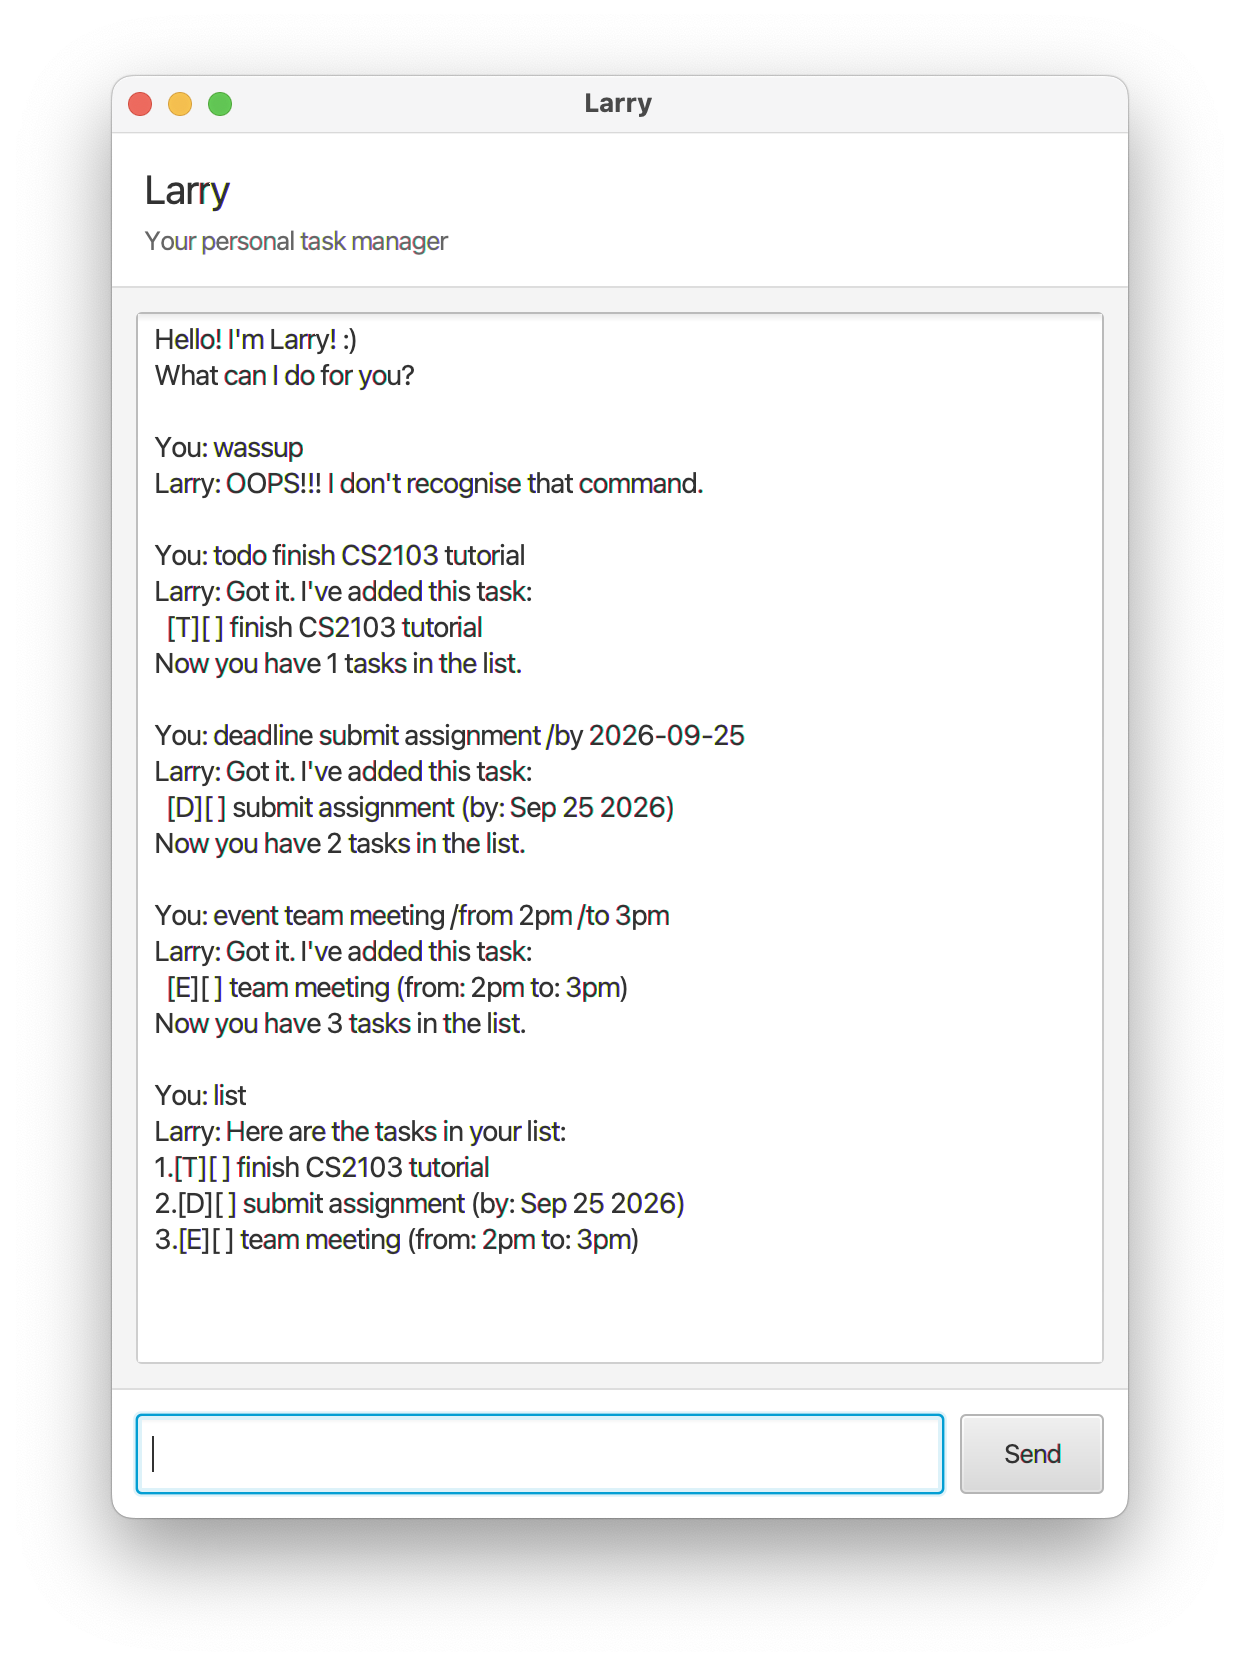
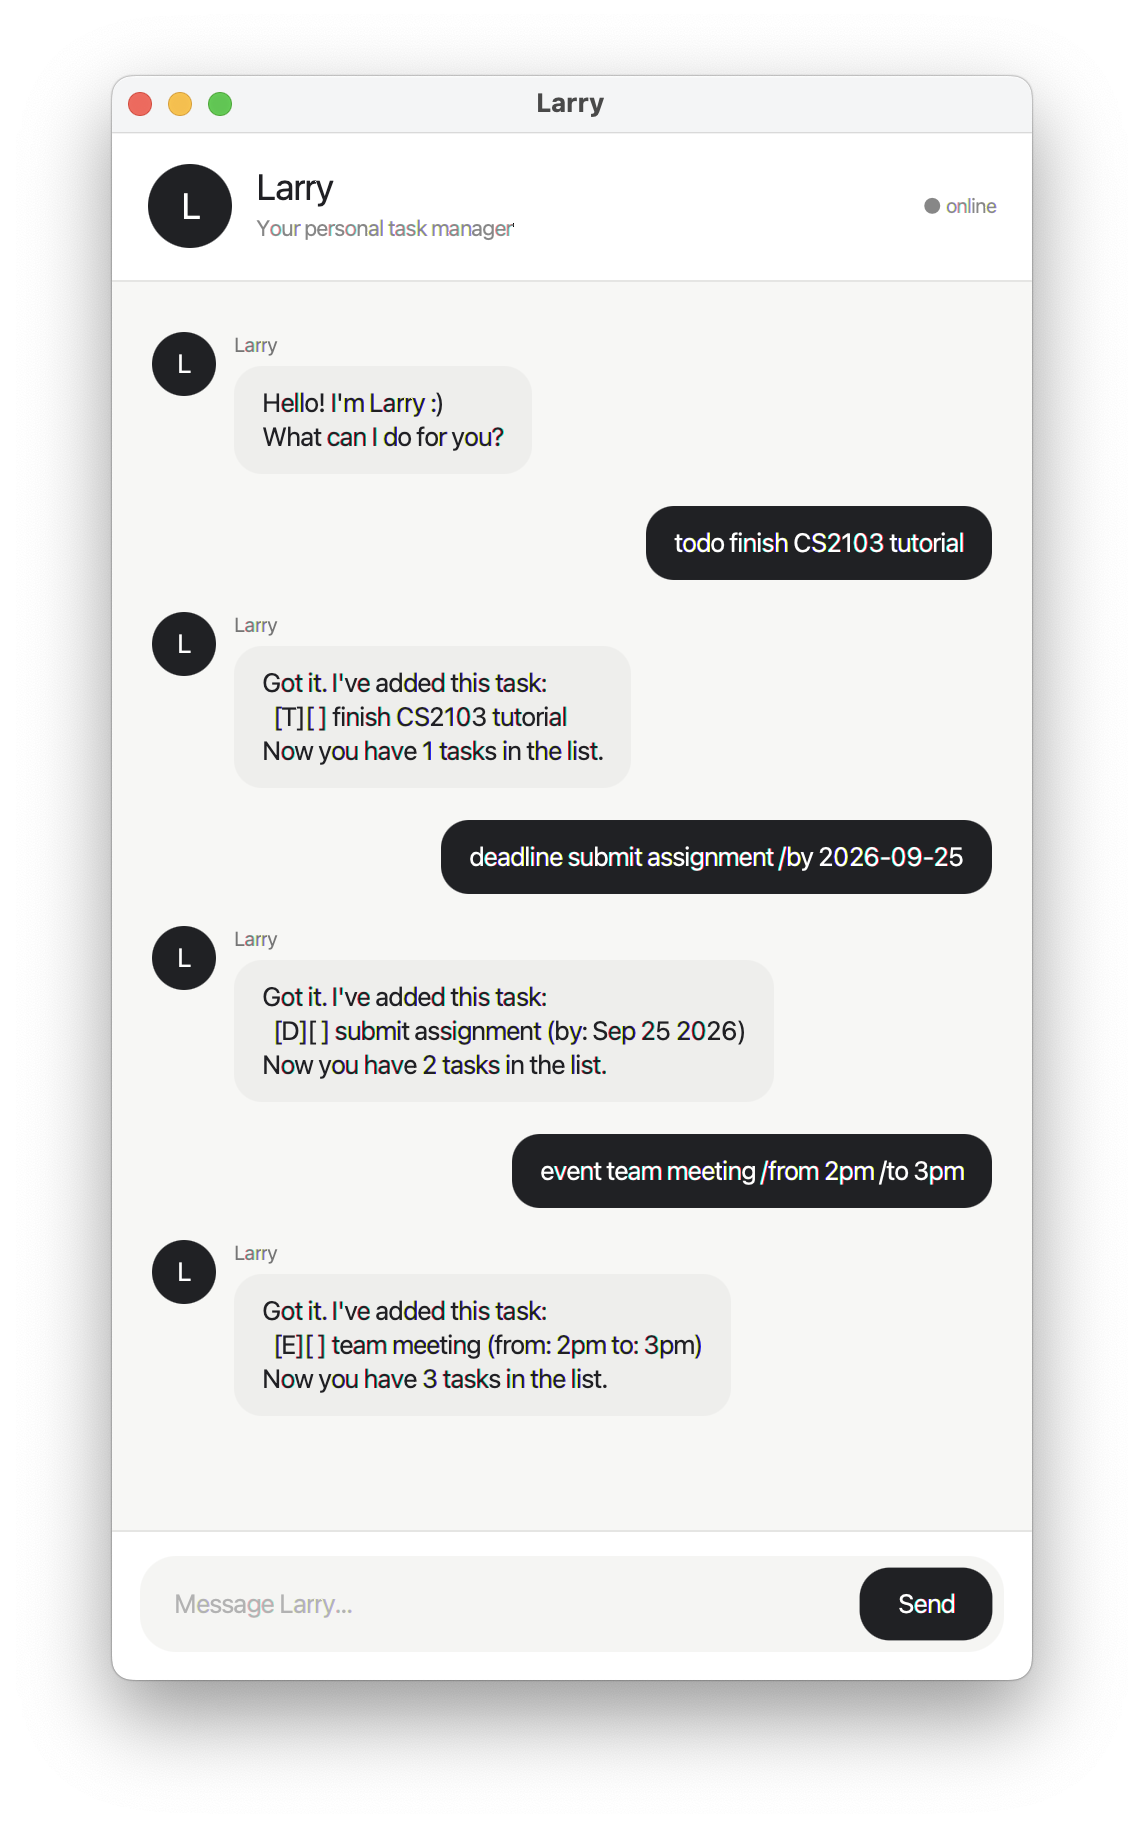
Improve GUI with chat bubbles
Redesign the conversation interface to display user and Larry messages as separate chat bubbles, with clearer visual distinction between participants and an updated product screenshot.

Changed region(s): [[0.0918, 0.0312, 0.9178, 0.9364], [0.4589, 0.0312, 0.5201, 0.0936], [0.7955, 0.0936, 0.8566, 0.1248]]

diff --git a/src/main/java/larry/MainWindow.java b/src/main/java/larry/MainWindow.java
@@ -1,9 +1,16 @@
 package larry;
 
 import javafx.fxml.FXML;
+import javafx.geometry.Insets;
+import javafx.geometry.Pos;
 import javafx.scene.control.Button;
-import javafx.scene.control.TextArea;
+import javafx.scene.control.Label;
+import javafx.scene.control.ScrollPane;
 import javafx.scene.control.TextField;
+import javafx.scene.layout.HBox;
+import javafx.scene.layout.Priority;
+import javafx.scene.layout.Region;
+import javafx.scene.layout.VBox;
 
 /**
  * Controller for the main GUI.
@@ -11,7 +18,10 @@ import javafx.scene.control.TextField;
 public class MainWindow {
 
     @FXML
-    private TextArea dialogArea;
+    private VBox dialogContainer;
+
+    @FXML
+    private ScrollPane scrollPane;
 
     @FXML
     private TextField userInput;
@@ -28,7 +38,7 @@ public class MainWindow {
      */
     public void setLarry(Larry larry) {
         this.larry = larry;
-        dialogArea.appendText("Hello! I'm Larry! :)\nWhat can I do for you?\n\n");
+        addLarryMessage("Hello! I'm Larry :)\nWhat can I do for you?");
     }
 
     @FXML
@@ -39,11 +49,84 @@ public class MainWindow {
             return;
         }
 
-        String response = larry.getResponse(input);
-
-        dialogArea.appendText("You: " + input + "\n");
-        dialogArea.appendText("Larry: " + response + "\n\n");
-
+        addUserMessage(input);
         userInput.clear();
+
+        String response = larry.getResponse(input);
+        addLarryMessage(response);
+    }
+
+    private void addUserMessage(String message) {
+        Label bubble = createBubble(
+                message,
+                "#202124",
+                "white"
+        );
+
+        HBox row = new HBox(bubble);
+        row.setAlignment(Pos.CENTER_RIGHT);
+        row.setPadding(new Insets(3, 0, 3, 60));
+
+        dialogContainer.getChildren().add(row);
+        scrollToBottom();
+    }
+
+    private void addLarryMessage(String message) {
+        Label avatar = new Label("L");
+        avatar.setAlignment(Pos.CENTER);
+        avatar.setMinSize(32, 32);
+        avatar.setMaxSize(32, 32);
+        avatar.setStyle(
+                "-fx-background-color: #202124;"
+                        + "-fx-background-radius: 16;"
+                        + "-fx-text-fill: white;"
+                        + "-fx-font-weight: bold;"
+        );
+
+        Label bubble = createBubble(
+                message,
+                "#eeeeec",
+                "#202124"
+        );
+
+        VBox messageBox = new VBox(4);
+
+        Label name = new Label("Larry");
+        name.setStyle(
+                "-fx-text-fill: #777777;"
+                        + "-fx-font-size: 10px;"
+                        + "-fx-font-weight: bold;"
+        );
+
+        messageBox.getChildren().addAll(name, bubble);
+
+        HBox row = new HBox(9, avatar, messageBox);
+        row.setAlignment(Pos.TOP_LEFT);
+        row.setPadding(new Insets(3, 60, 3, 0));
+
+        dialogContainer.getChildren().add(row);
+        scrollToBottom();
+    }
+
+    private Label createBubble(String message, String background, String textColor) {
+        Label bubble = new Label(message);
+
+        bubble.setWrapText(true);
+        bubble.setMaxWidth(300);
+        bubble.setPadding(new Insets(10, 14, 10, 14));
+
+        bubble.setStyle(
+                "-fx-background-color: " + background + ";"
+                        + "-fx-background-radius: 14;"
+                        + "-fx-text-fill: " + textColor + ";"
+                        + "-fx-font-size: 13px;"
+        );
+
+        return bubble;
+    }
+
+    private void scrollToBottom() {
+        scrollPane.layout();
+        scrollPane.setVvalue(1.0);
     }
 }
